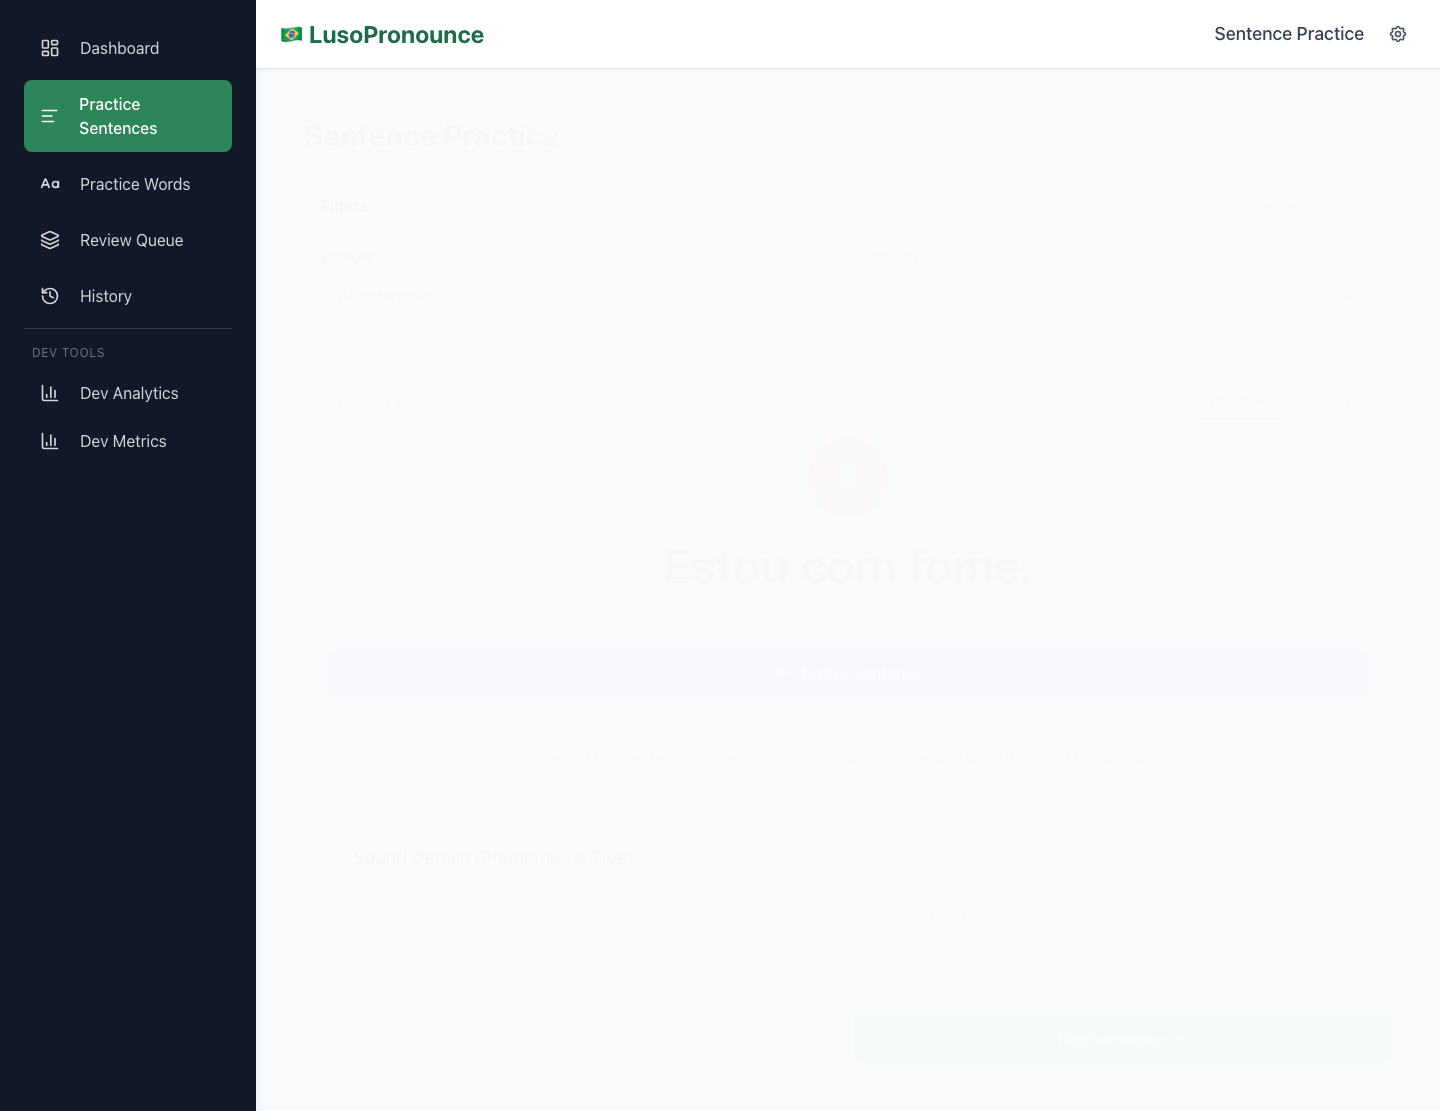
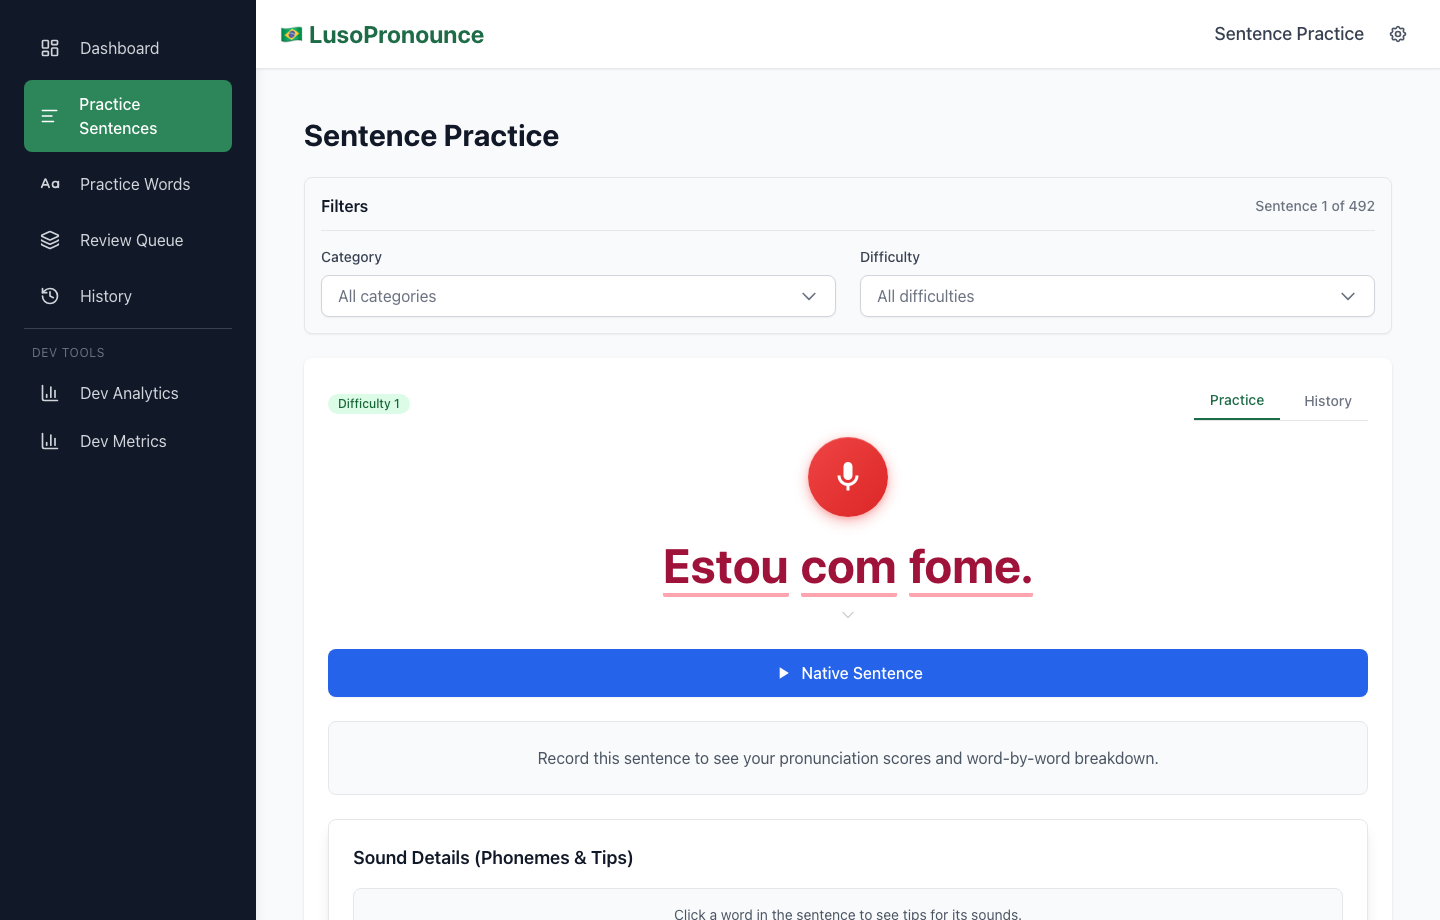
Merge pull request #66 from TGALLOWAY1/codex/fix/readme-screenshot-capture
fix(docs): stabilize Playwright README captures and refresh screenshots

Pull request: fix(docs): stabilize Playwright README captures and refresh screenshots

diff --git a/e2e/readme-screenshots.spec.ts b/e2e/readme-screenshots.spec.ts
@@ -4,26 +4,45 @@ import { expect, test, type Page } from '@playwright/test';
 
 const OUTPUT_DIR = path.resolve(process.cwd(), 'docs/assets/readme');
 
-const screenMatrix: Array<{ route: string; fileName: string; heading: string | RegExp }> = [
-  { route: '/', fileName: 'dashboard.png', heading: 'Dashboard' },
-  { route: '/practice/sentence', fileName: 'sentence-practice.png', heading: 'Sentence Practice' },
-  { route: '/practice/word', fileName: 'word-practice.png', heading: /Word Practice/i },
-  { route: '/review', fileName: 'review-queue.png', heading: /Review/i },
-  { route: '/sessions', fileName: 'recent-sessions.png', heading: /Recent Sessions/i },
+const screenMatrix: Array<{
+  route: string;
+  fileName: string;
+  readyText: string;
+}> = [
+  { route: '/', fileName: 'dashboard.png', readyText: 'Dashboard' },
+  {
+    route: '/practice/sentence',
+    fileName: 'sentence-practice.png',
+    readyText: 'Sentence Practice',
+  },
+  {
+    route: '/practice/word',
+    fileName: 'word-practice.png',
+    readyText: 'Word Practice',
+  },
+  { route: '/review', fileName: 'review-queue.png', readyText: 'Review Queue' },
+  {
+    route: '/sessions',
+    fileName: 'recent-sessions.png',
+    readyText: 'Recent Sessions',
+  },
 ];
 
-async function captureRoute(page: Page, route: string, heading: string | RegExp, outputPath: string) {
+async function captureRoute(page: Page, route: string, readyText: string, outputPath: string) {
   await page.goto(route, { waitUntil: 'domcontentloaded' });
   await page.setViewportSize({ width: 1440, height: 920 });
+  await page.emulateMedia({ colorScheme: 'light', reducedMotion: 'reduce' });
 
-  if (typeof heading === 'string') {
-    await expect(page.getByRole('heading', { name: heading }).first()).toBeVisible();
-  } else {
-    await expect(page.getByRole('heading', { name: heading }).first()).toBeVisible();
-  }
+  await page.addStyleTag({
+    content:
+      '*{animation-duration:0s !important;animation-delay:0s !important;transition-duration:0s !important;scroll-behavior:auto !important;}',
+  });
 
-  await page.waitForTimeout(300);
-  await page.screenshot({ path: outputPath, fullPage: true });
+  const readyTarget = page.locator('main').getByRole('heading', { name: readyText }).first();
+  await expect(readyTarget).toBeVisible({ timeout: 15_000 });
+  await expect(readyTarget).toHaveCSS('opacity', '1', { timeout: 15_000 });
+  await page.waitForTimeout(200);
+  await page.screenshot({ path: outputPath, fullPage: false });
 }
 
 test.describe('README screenshots', () => {
@@ -32,7 +51,7 @@ test.describe('README screenshots', () => {
 
     for (const screen of screenMatrix) {
       const outputPath = path.join(OUTPUT_DIR, screen.fileName);
-      await captureRoute(page, screen.route, screen.heading, outputPath);
+      await captureRoute(page, screen.route, screen.readyText, outputPath);
     }
   });
 });